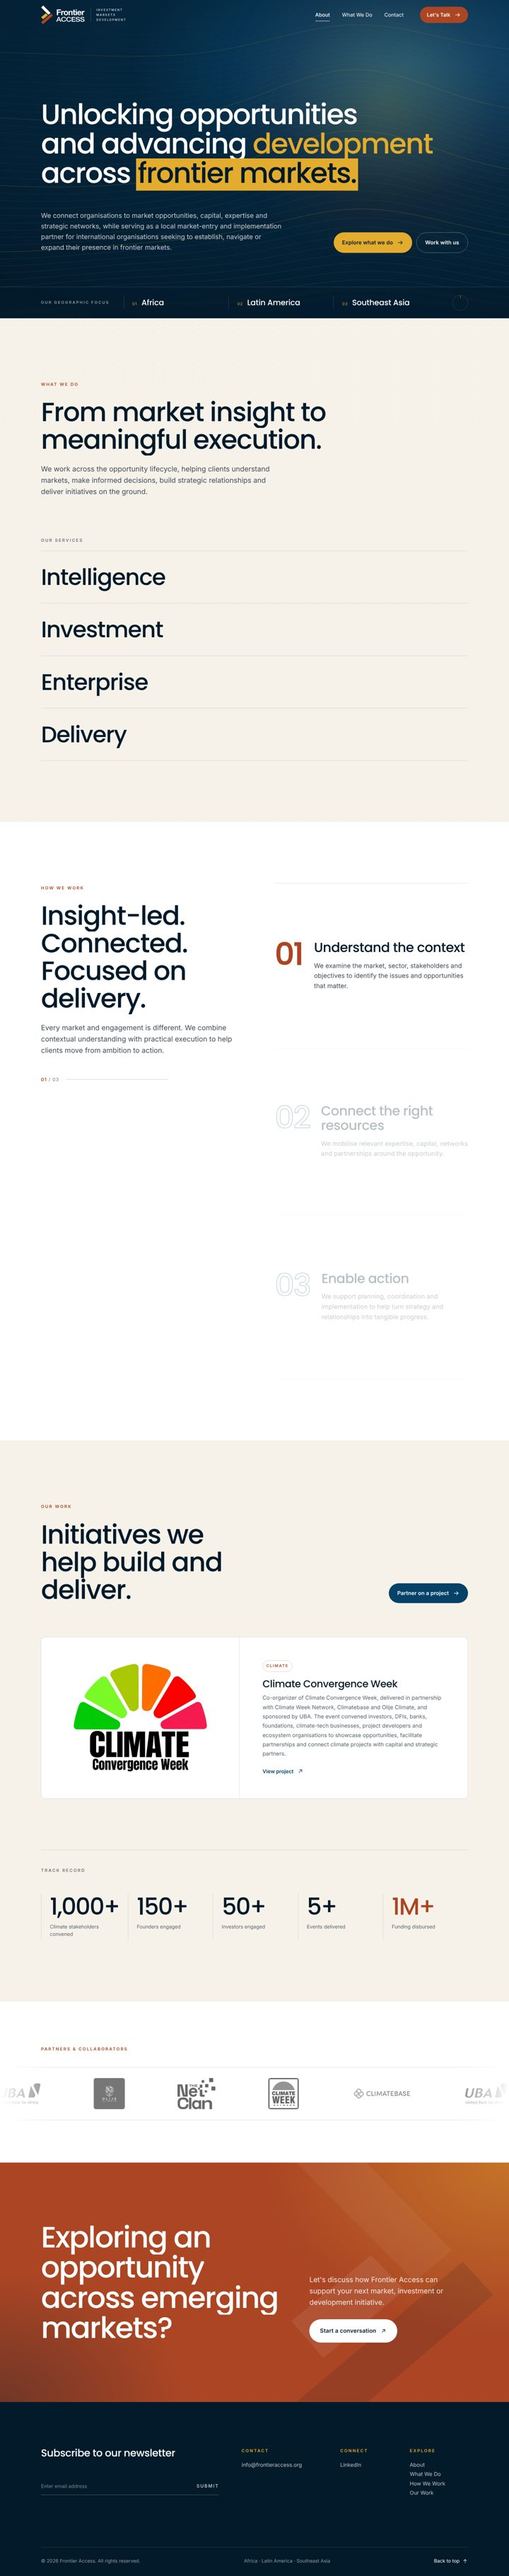
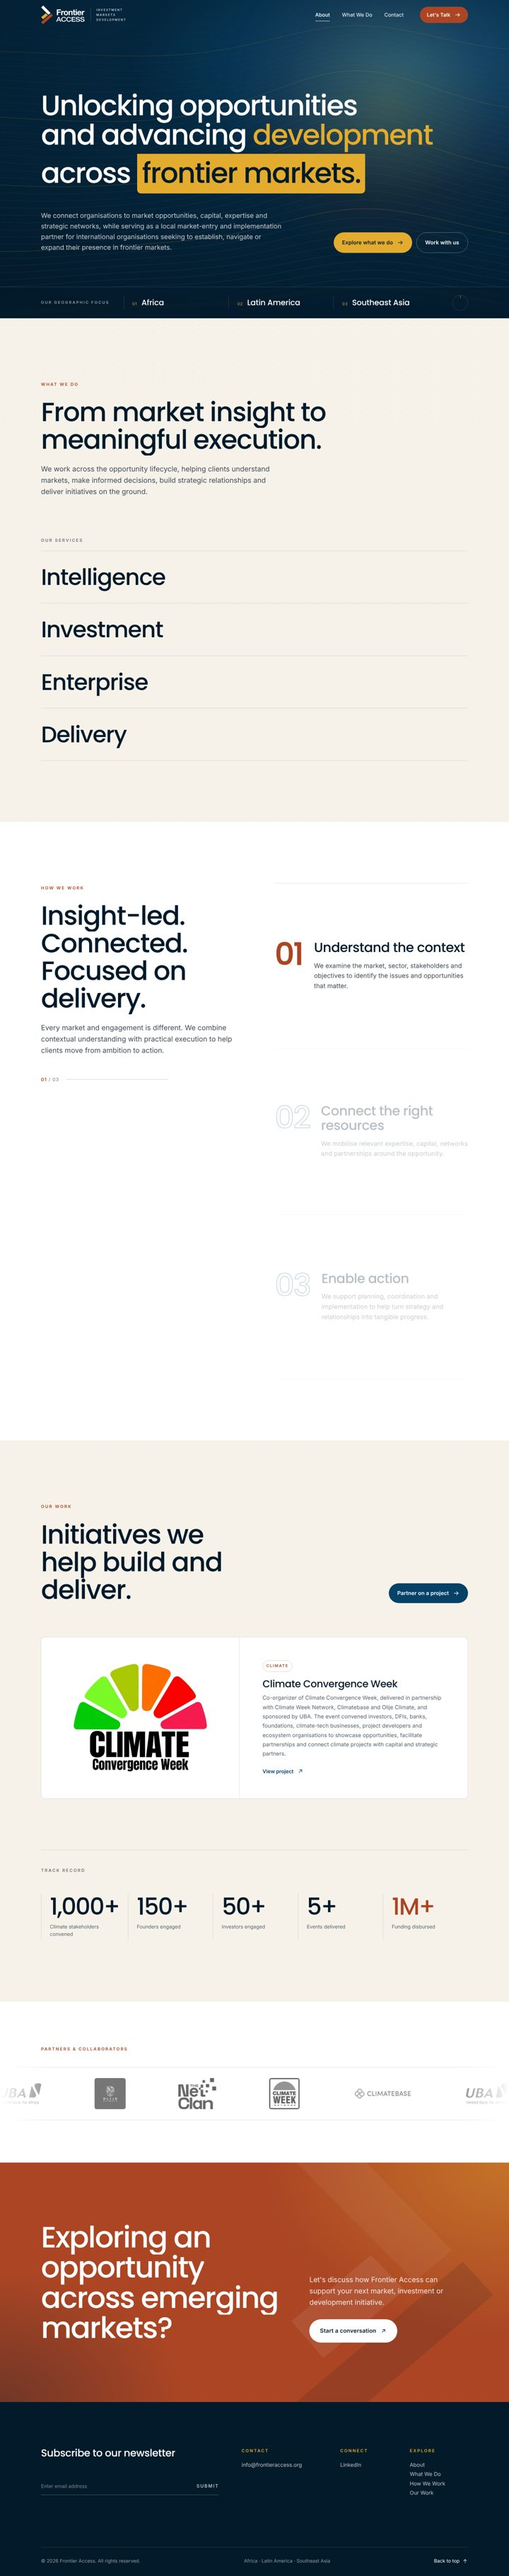
Rounded, padded highlight on "frontier markets."
Give the hero highlight generous side padding, extra space above the
text and rounded corners, with room above the line so it clears the
descenders of "development". On phones, where the phrase wraps, each
line gets its own rounded block with a gap between them.

Claude-Session: https://claude.ai/code/session_013iMuxdDqZ6bm7NfrpEJfTy

Changed region(s): [[0.0611, 0.031, 0.8556, 0.0931], [0.5194, 0.8067, 0.5806, 0.8377], [0.3667, 0.8067, 0.3972, 0.8377]]

diff --git a/styles.css b/styles.css
@@ -202,13 +202,14 @@ body.menu-open .mobile-menu li:nth-child(5) a { transition-delay: .44s; }
 }
 .hero-title em { font-style: normal; color: var(--gold); }
 .hero-hl {
-  color: #fff; padding: 0 .06em; margin: 0 -.02em;
+  color: #fff; padding: .1em .17em .02em; margin-left: .02em; border-radius: .13em;
   background: linear-gradient(var(--gold), var(--gold)) no-repeat 0 0 / 0% 100%;
   -webkit-box-decoration-break: clone; box-decoration-break: clone;
   transition: background-size 1s var(--ease) 1.25s, color .5s var(--ease) 1.45s;
 }
 .is-loaded .hero-hl { background-size: 100% 100%; color: var(--navy-ink); }
 .line { display: block; overflow: hidden; padding: 0 .08em .1em 0; margin-bottom: -.1em; }
+.hero-title .line:has(.hero-hl) { padding: .16em .08em .3em 0; margin: .15em 0 -.3em; }
 .line > span { display: inline-block; white-space: nowrap; transform: translateY(105%); transition: transform 1.2s var(--ease); }
 .is-loaded .hero-title .line > span { transform: none; }
 .is-loaded .hero-title .line:nth-child(1) > span { transition-delay: .25s; }
@@ -447,6 +448,9 @@ body.menu-open .mobile-menu li:nth-child(5) a { transition-delay: .44s; }
   .logo-full { height: 42px; width: calc(42px * 1288 / 563); }
   .hero-ctas .btn { flex: 1; justify-content: center; }
   .line > span { white-space: normal; }
+  .hero-title { line-height: 1.12; }
+  .hero-hl { padding: .05em .12em 0; border-radius: .12em; }
+  .hero-title .line:has(.hero-hl) { padding-top: .06em; margin-top: .02em; line-height: 1.34; }
   .stat { padding: 4px 16px 8px; }
   .partner-logo { height: 64px; }
   .partner-logo.is-wide { height: 42px; }
